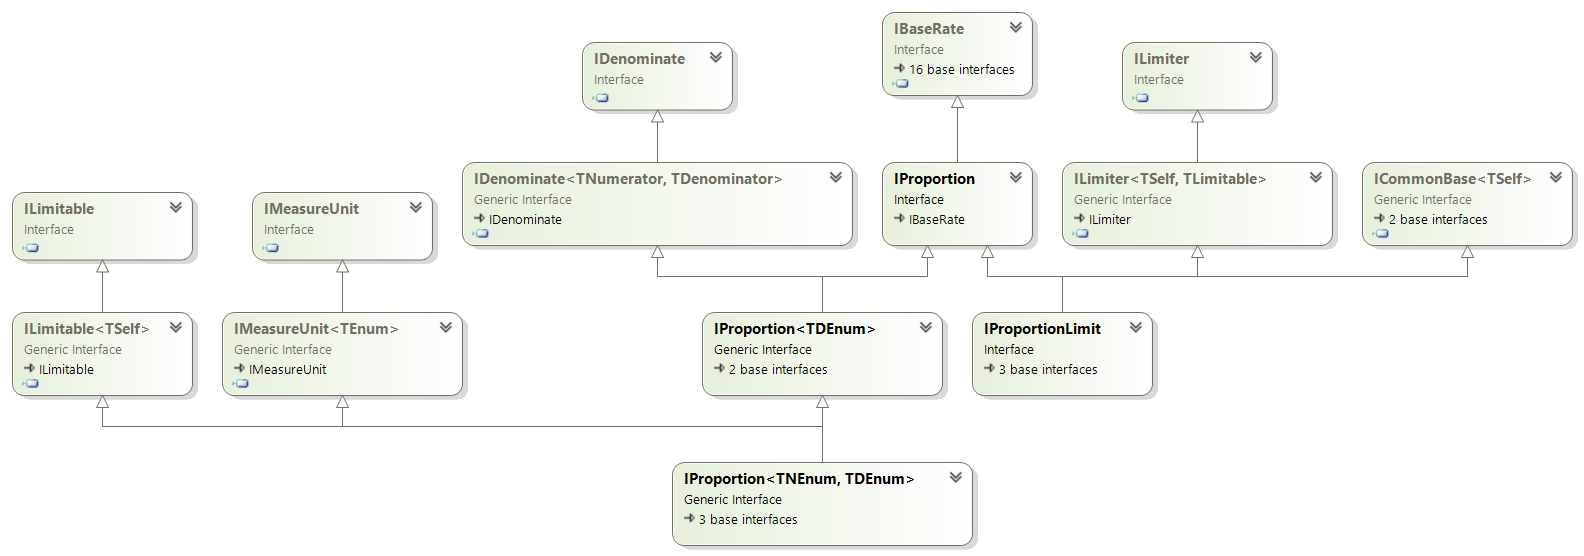
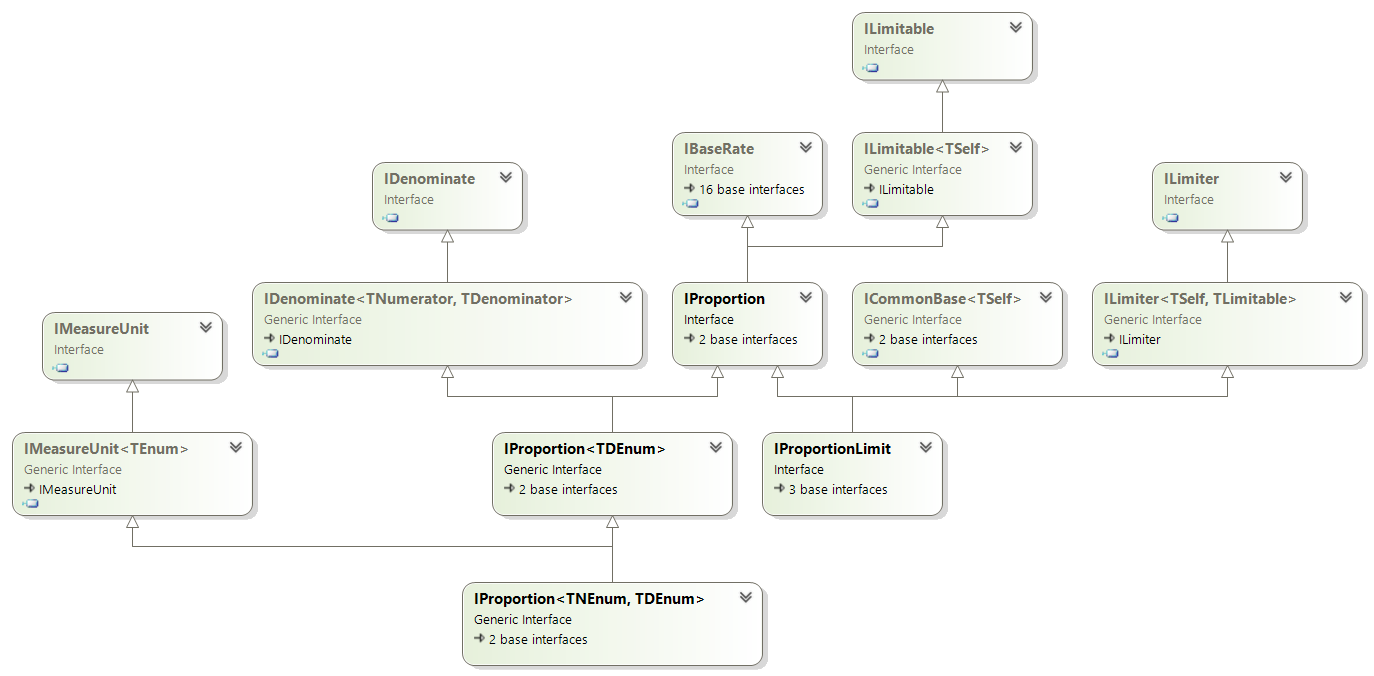
IProportion

diff --git a/Proportions/Types/Implementations/Proportion.cs b/Proportions/Types/Implementations/Proportion.cs
@@ -68,6 +68,15 @@
         #endregion
 
         #region Public methods
+        public IProportion ConvertToLimitable(ILimiter limiter)
+        {
+            string paramName = nameof(limiter);
+
+            if (NullChecked(limiter, paramName) is IBaseRate baseRate) return GetProportion(baseRate);
+
+            throw ArgumentTypeOutOfRangeException(paramName, limiter);
+        }
+
         #region Override methods
         #region Sealed methods
         public override sealed decimal GetDefaultQuantity()
@@ -114,10 +123,13 @@
     internal abstract class Proportion<TDEnum> : Proportion, IProportion<TDEnum>
         where TDEnum : struct, Enum
     {
+        #region Constructors
         private protected Proportion(IProportionFactory factory, Enum numeratorMeasureUnit, ValueType quantity, TDEnum denominatorMeasureUnit) : base(factory, numeratorMeasureUnit, quantity, denominatorMeasureUnit)
         {
         }
+        #endregion
 
+        #region Public methods
         public IMeasure Denominate(TDEnum measureUnit)
         {
             decimal quantity = GetQuantity(measureUnit);
@@ -131,11 +143,6 @@
             return GetFactory().Create(numerator, denominator);
         }
 
-        public override sealed IProportion GetProportion(IBaseRate baseRate)
-        {
-            return GetFactory().Create(baseRate);
-        }
-
         public IProportion<TDEnum> GetProportion(IBaseMeasure numerator, TDEnum denominatorMeasureUnit)
         {
             return GetFactory().Create(numerator, denominatorMeasureUnit);
@@ -144,6 +151,13 @@
         public decimal GetQuantity(TDEnum denominatorMeasureUnit)
         {
             return DefaultQuantity / GetExchangeRate(denominatorMeasureUnit);
+        }
+
+        #region Override methods
+        #region Sealed methods
+        public override sealed IProportion GetProportion(IBaseRate baseRate)
+        {
+            return GetFactory().Create(baseRate);
         }
 
         public override sealed IBaseRate GetBaseRate(MeasureUnitCode numeratorMeasureUnitCode, decimal defaultQuantity, MeasureUnitCode denominatorMeasureUnitCode)
@@ -155,22 +169,22 @@
         {
             return (IProportionFactory)Factory;
         }
-
+        #endregion
+        #endregion
+        #endregion
     }
 
     internal sealed class Proportion<TNEnum, TDEnum> : Proportion<TDEnum>, IProportion<TNEnum, TDEnum>
         where TNEnum : struct, Enum
         where TDEnum : struct, Enum
     {
+        #region Constructors
         internal Proportion(IProportionFactory factory, TNEnum numeratorMeasureUnit, ValueType quantity, TDEnum denominatorMeasureUnit) : base(factory, numeratorMeasureUnit, quantity, denominatorMeasureUnit)
         {
         }
+        #endregion
 
-        public IProportion<TNEnum, TDEnum> ConvertToLimitable(ILimiter limiter)
-        {
-            throw new NotImplementedException();
-        }
-
+        #region Public methods
         public TNEnum GetMeasureUnit(IMeasureUnit<TNEnum>? other)
         {
             if (other == null) return default;
@@ -192,5 +206,6 @@
         {
             return DefaultQuantity * GetExchangeRate(numeratorMeasureUnit);
         }
+        #endregion
     }
 }

diff --git a/Proportions/Types/IProportion.cs b/Proportions/Types/IProportion.cs
@@ -1,6 +1,8 @@
-namespace CsabaDu.FooVaria.Proportions.Types
+using System;
+
+namespace CsabaDu.FooVaria.Proportions.Types
 {
-    public interface IProportion : IBaseRate
+    public interface IProportion : IBaseRate, ILimitable<IProportion>
     {
         MeasureUnitCode NumeratorMeasureUnitCode { get; init; }
         decimal DefaultQuantity { get; init; }
@@ -16,7 +18,7 @@
         decimal GetQuantity(TDEnum denominatorMeasureUnit);
     }
 
-    public interface IProportion<TNEnum, TDEnum> : IProportion<TDEnum>, IMeasureUnit<TNEnum>, ILimitable<IProportion<TNEnum, TDEnum>>
+    public interface IProportion<TNEnum, TDEnum> : IProportion<TDEnum>, IMeasureUnit<TNEnum>
         where TNEnum : struct, Enum
         where TDEnum : struct, Enum
     {
